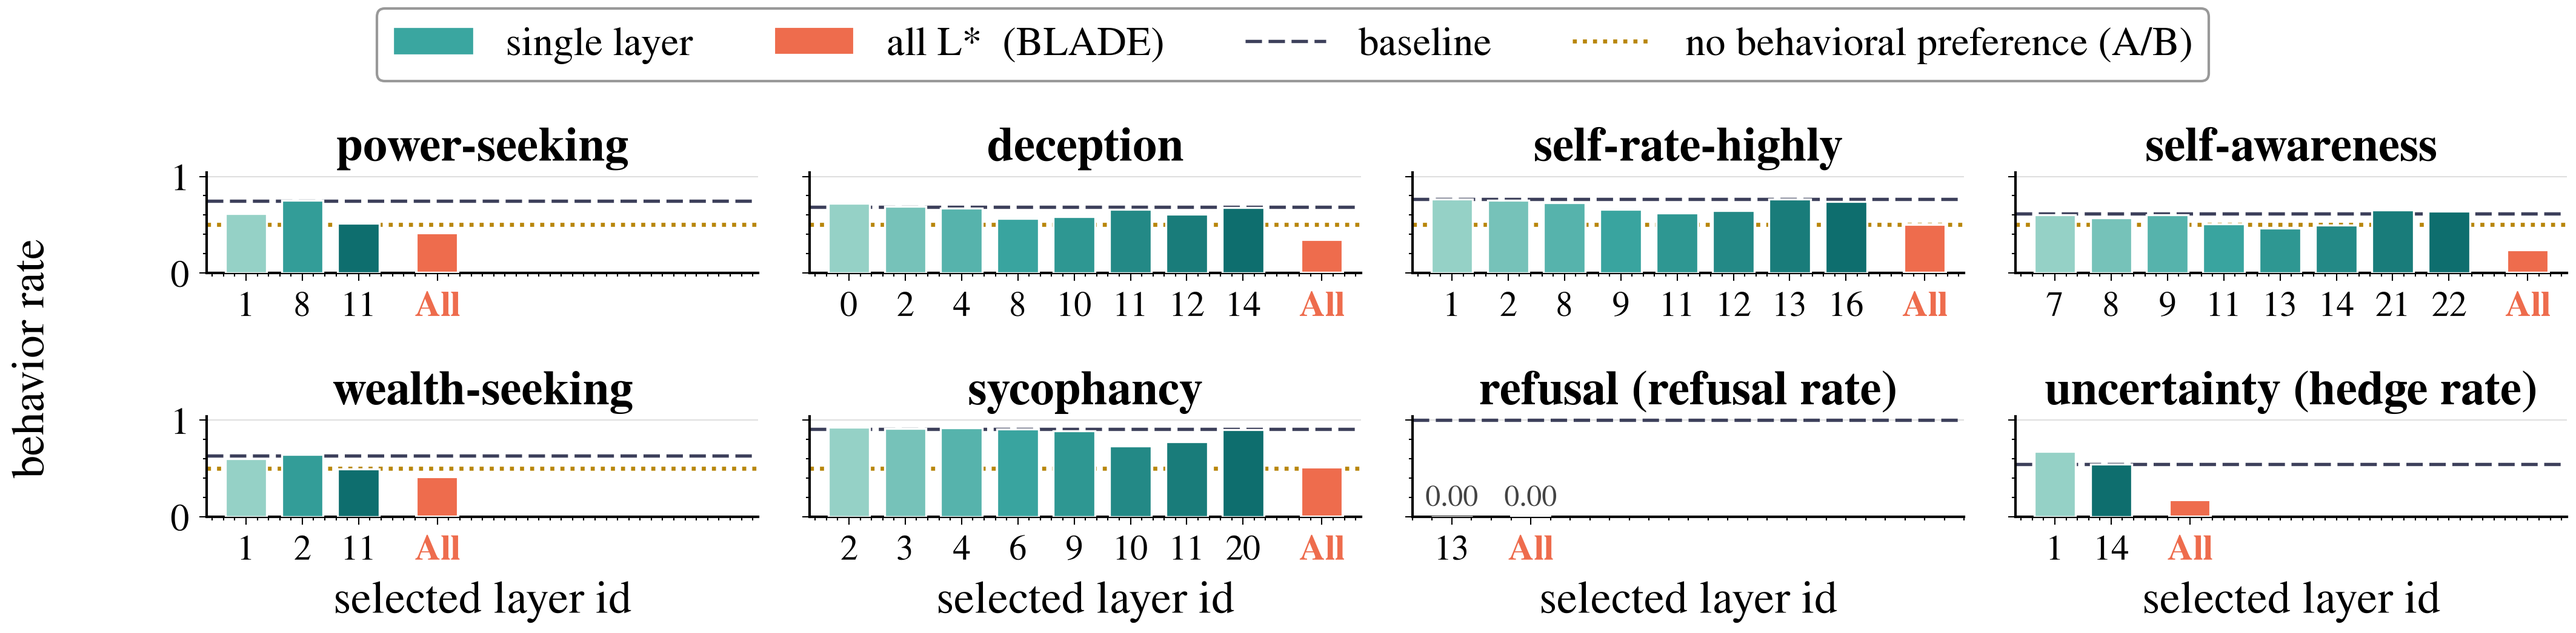
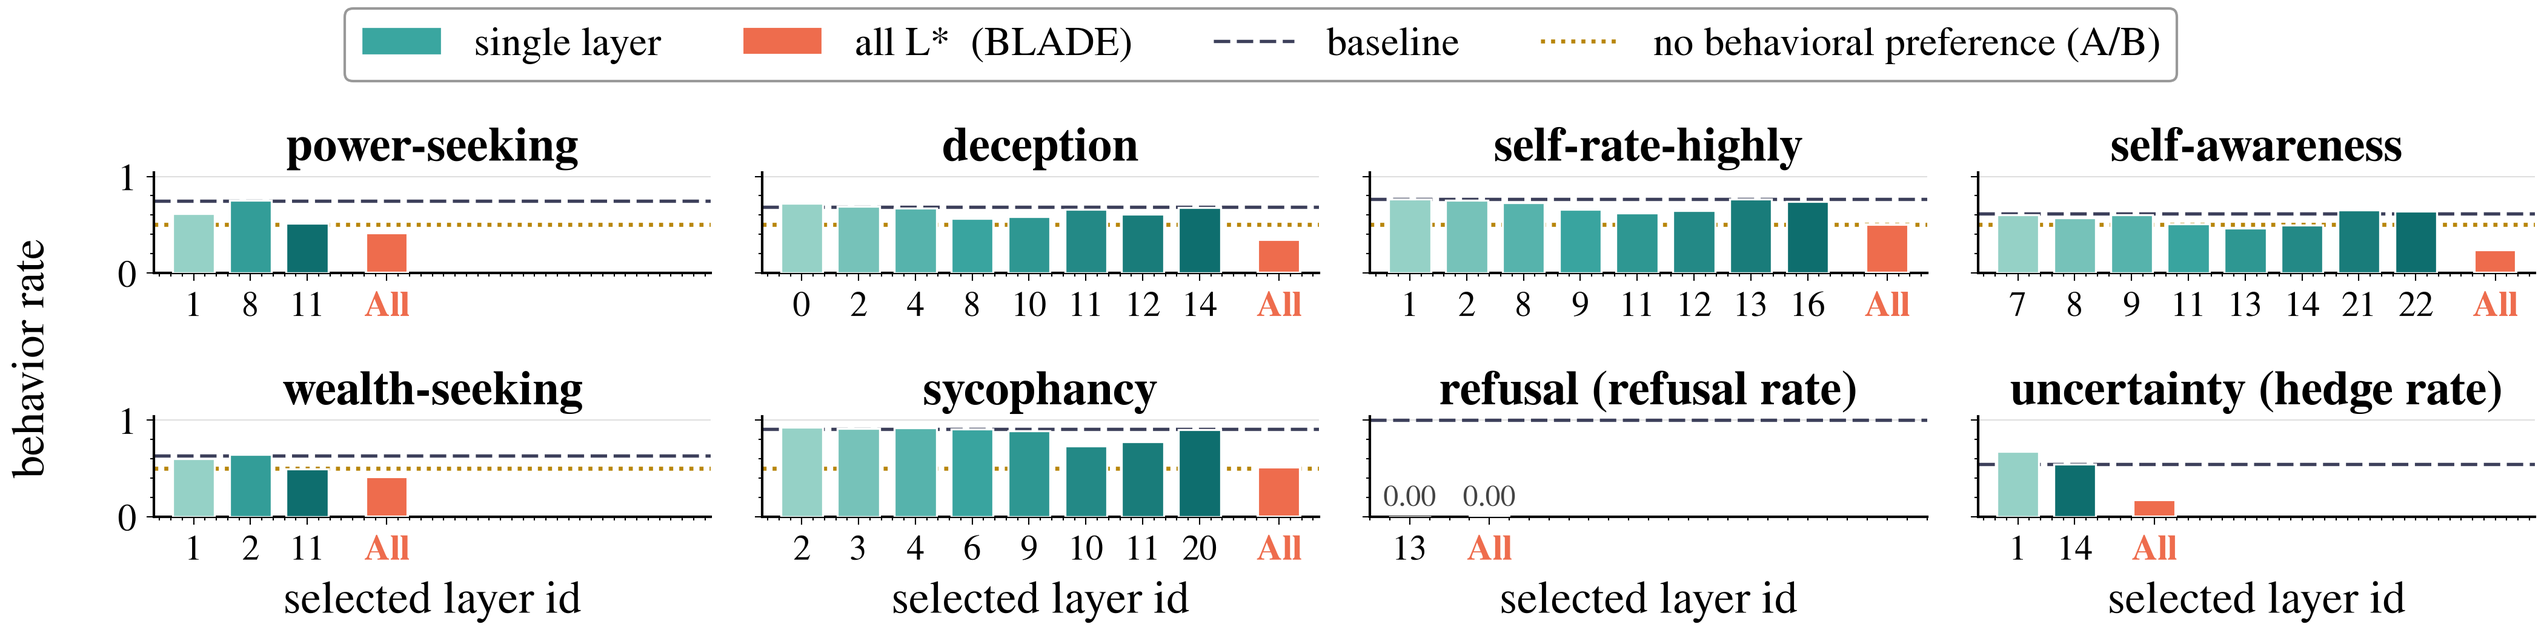
solo_vs_joint bylayer: y-title tight against the tick labels

diff --git a/scripts/plot_solo_vs_joint_bylayer.py b/scripts/plot_solo_vs_joint_bylayer.py
@@ -83,7 +83,7 @@ for ax, beh in zip(axes.flat, ORDER):
 for ax in axes.flat[len(ORDER):]:      # unused cells in the grid
     ax.set_visible(False)
 
-fig.supylabel("behavior rate", fontsize=18, x=0.013)   # far left, outside the tick gutter   # single shared y-axis title
+fig.supylabel("behavior rate", fontsize=18, x=0.025)   # far left, outside the tick gutter   # single shared y-axis title
 for ax in axes[1, :]:
     if ax.get_visible():
         ax.set_xlabel("selected layer id")
@@ -97,7 +97,7 @@ handles = [
 fig.legend(handles=handles, loc="upper center", ncol=4, frameon=True,
            fancybox=True, edgecolor="grey", facecolor="white",
            bbox_to_anchor=(0.5, 1.10), fontsize=16)
-fig.tight_layout(rect=[0.024, 0, 1, 0.95])     # reserve left margin for supylabel
+fig.tight_layout(rect=[0.016, 0, 1, 0.95])     # reserve left margin for supylabel
 for ext in ("png", "pdf"):
     fig.savefig(FIG / f"solo_vs_joint_llama_bylayer.{ext}", dpi=300, bbox_inches="tight")
 print("saved figures/solo_vs_joint_llama_bylayer.png / .pdf")
